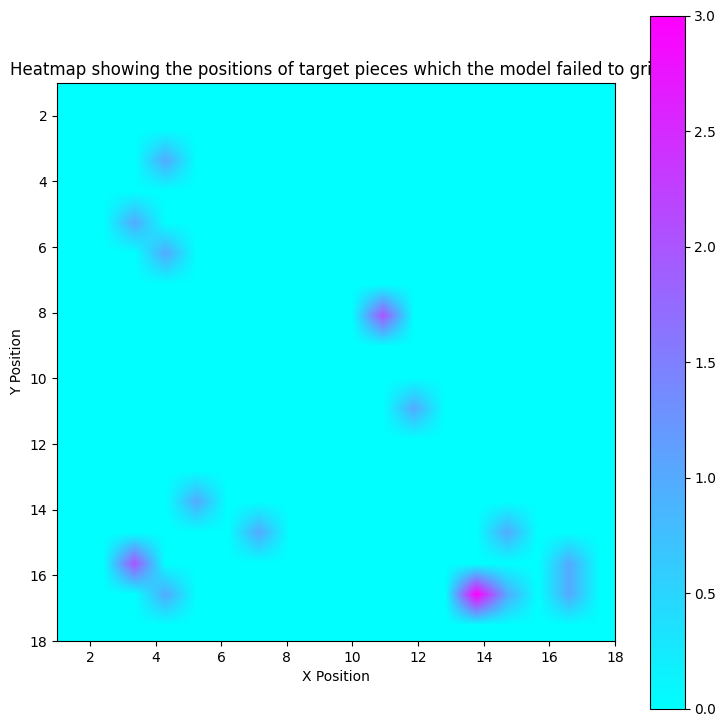
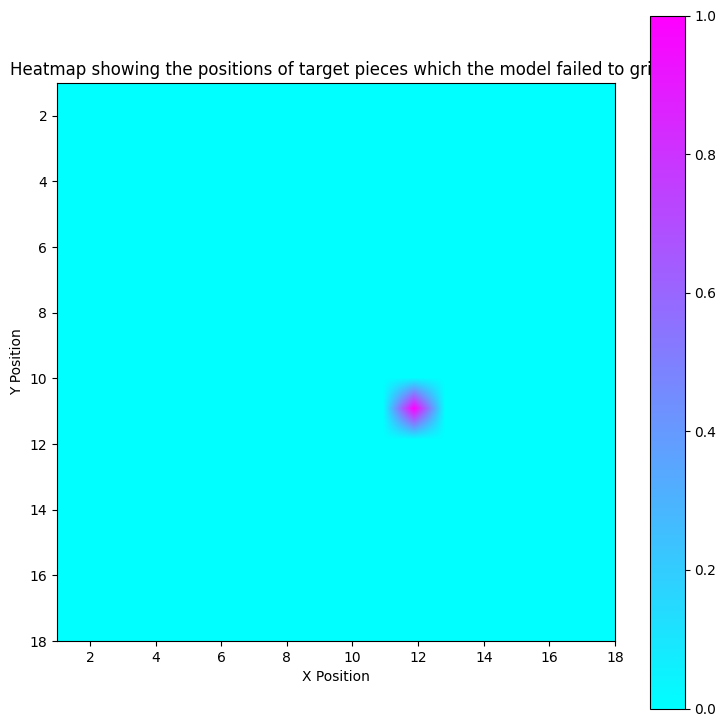
update results

diff --git a/plots/fail.py b/plots/fail.py
@@ -33,12 +33,15 @@ def get_pos(s):
 
 
 fail_data = np.zeros((18,18))
-
+epic_shape_fails = {}
+epic_colour_fails = {}
 def plot_fails(csv_path):
     df = pd.read_csv(csv_path)
     for i in range(len(df)):
         position = df.iloc[i]['target_position']
         predicted_position = df.iloc[i]['predicted_position']
+        shape = df.iloc[i]['shape']
+        colour = df.iloc[i]['color']
         position = get_pos(position)
         predicted_position = get_pos(predicted_position)
 
@@ -50,6 +53,12 @@ def plot_fails(csv_path):
         valid_positions = [position]
         if not (predicted_position in valid_positions and df.iloc[i]['last_move'] == 'grip'):
             fail_data[position[0], position[1]] += 1
+            if shape not in epic_shape_fails:
+                epic_shape_fails[shape] = 0
+            epic_shape_fails[shape] += 1
+            if colour not in epic_colour_fails:
+                epic_colour_fails[colour] = 0
+            epic_colour_fails[colour] += 1
 
     plt.figure(figsize=(9, 9))
     plt.imshow(fail_data, cmap='cool', interpolation='bilinear', extent=(1, 18, 18, 1))  # Create the heatmap
@@ -59,6 +68,8 @@ def plot_fails(csv_path):
     plt.ylabel('Y Position')  # Label for y-axis
     plt.savefig(f'plots/{csv_path.split("/")[-1].split(".csv")[0]}_fails.png', bbox_inches='tight')  # Save the plot locally
     plt.close()
+    print(epic_shape_fails)
+    print(epic_colour_fails)
 
 
 
@@ -66,6 +77,6 @@ def plot_fails(csv_path):
 
 if __name__ == "__main__":
     dacc_folder = "results"
-    dacc_csvs = ["results/llava-1.5-13b-hf-ft-2ep_easy.csv"]
+    dacc_csvs = ["results/llava-1.5-7b-hf-ft_easy.csv"]
     for csv_path in dacc_csvs:
         plot_fails(csv_path)
